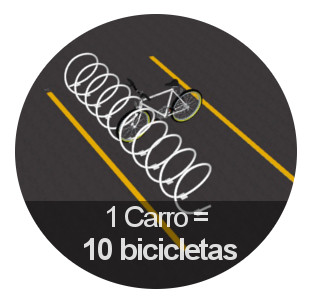
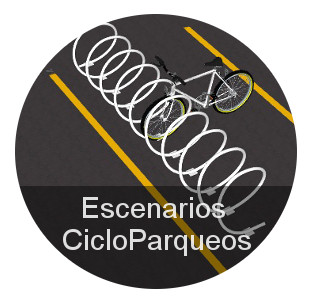
fix

Changed region(s): [[0.0575, 0.0588, 0.9489, 0.9118], [0.8339, 0.7059, 0.8626, 0.7353]]

diff --git a/prod.htm b/prod.htm
@@ -68,11 +68,11 @@
                 <span onclick="openNav46()"><img class="prod" src="img/00-board-rack-ciclo-parqueo-bike-parking-exterior.jpg" alt="board_rack"></img></span>
                 <span onclick="openNav47()"><img class="prod" src="img/00-surf-rack-ciclo-parqueo-bike-parking-exterior.jpg" alt="surf_rack"></img></span>
                 <span onclick="openNav48()"><img class="prod" src="img/00-warning-rack-ciclo-parqueo-bike-parking-exterior.jpg" alt="warning_rack"></img></span>
-                <span onclick="openNav50()"><img class="prod" src="img/00-modelo-ciclo-parqueo-spiral-rack-inoxidable-carro.jpg" alt="1carro=10cletas"></img></span>
+                <span onclick="openNav54()"><img class="prod" src="img/00-bollard-rack-ciclo-parqueo.jpg" alt="bollard-rack"></img></span>
                 <span onclick="openNav51()"><img class="prod" src="img/00-vertical-rack-base-ciclo-parqueo-bike-parking.jpg" alt="EV-Triangle"></img></span>
                 <span onclick="openNav52()"><img class="prod" src="img/00-EV-torre-ciclo-parqueo.jpg" alt="EV-Torre"></img></span>
                 <span onclick="openNav53()"><img class="prod" src="img/00-spike-rack-ciclo-parqueo.jpg" alt="spike-rack"></img></span>
-                <span onclick="openNav54()"><img class="prod" src="img/00-bollard-rack-ciclo-parqueo.jpg" alt="bollard-rack"></img></span>
+                <span onclick="openNav50()"><img class="prod" src="img/00-modelo-ciclo-parqueo-spiral-rack-inoxidable-carro.jpg" alt="1carro=10cletas"></img></span>
                 <span onclick="openNav49()"><img class="prod" src="img/00-no-recomendado-mal-estacionamiento.jpg" alt="no_recomendado"></img></span>
               </div>
 
@@ -1042,7 +1042,7 @@
       <div id="myNav50" class="overlay">
             <a href="javascript:void(0)" class="closebtn" onclick="closeNav50()">&times;</a>
             <div class="overlay-content">
-              <h1 class="overlad">1 Carro = 10 Bicicletas:</h1>
+              <h1 class="overlad">Escenarios CicloParqueos:</h1>
               <p style="letter-spacing:3px;color:#F35E18">EFICIENCIA DE ESPACIO</p>
               <hr>
 
@@ -1535,7 +1535,7 @@
           <li>Dimensiones: 5x22x25 pulgadas.</li>
           <li>Capacidad de peso 75 libras/34 kilogramos.</li>
         </ul>
-          <h2>₡52.500</h2>
+          <h2>₡59.000</h2>
     </div>
     </div>
   </div>
